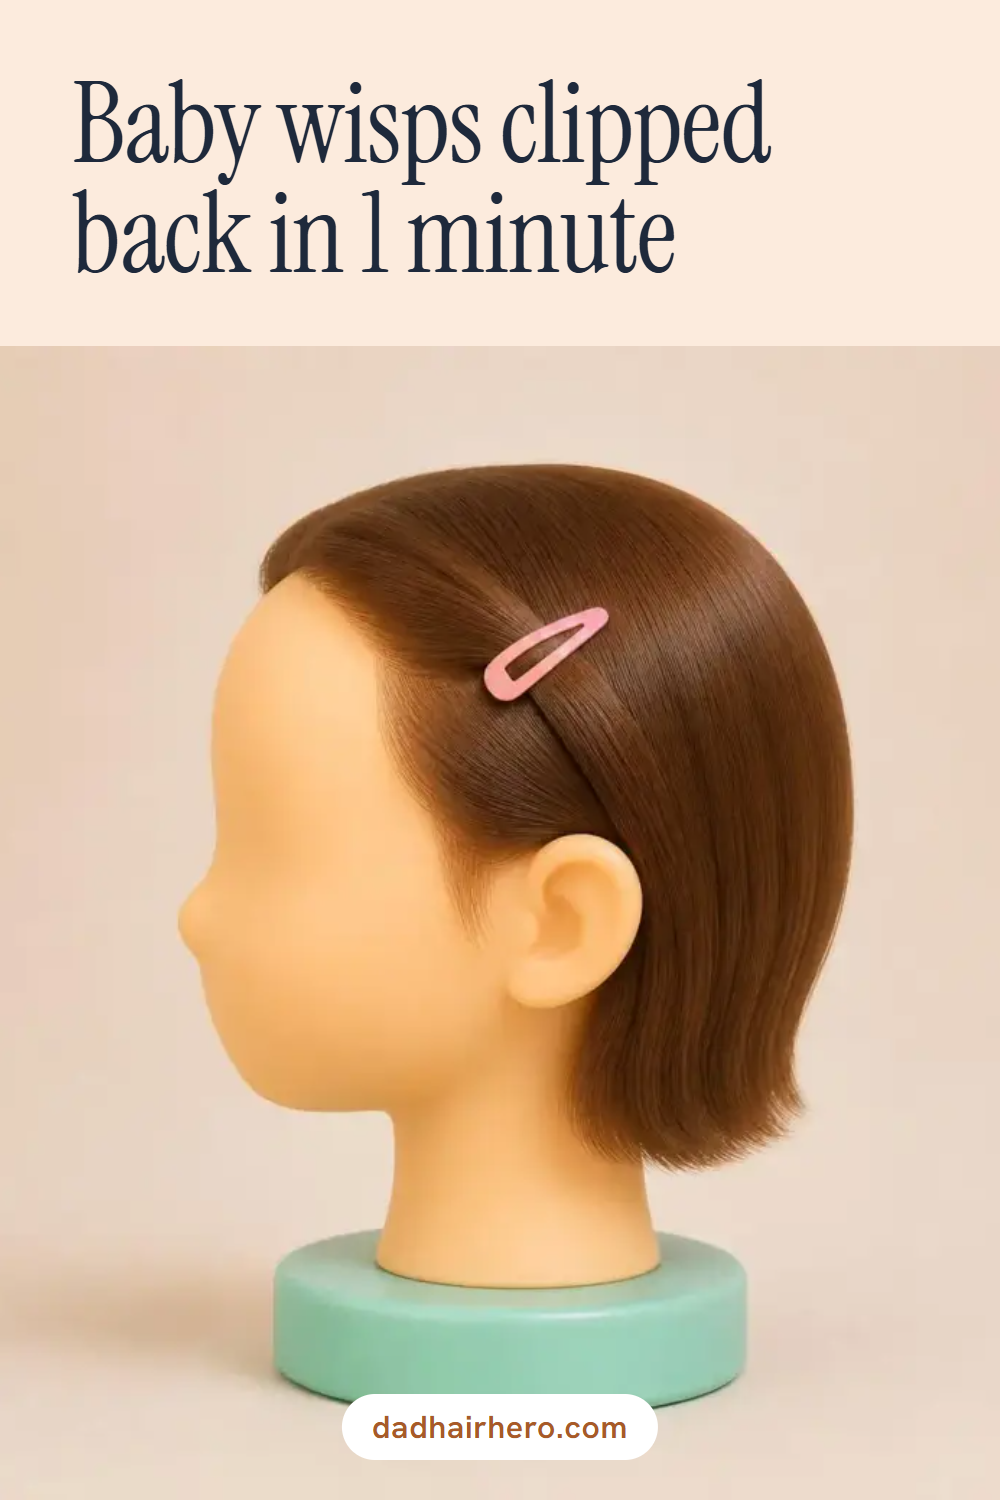
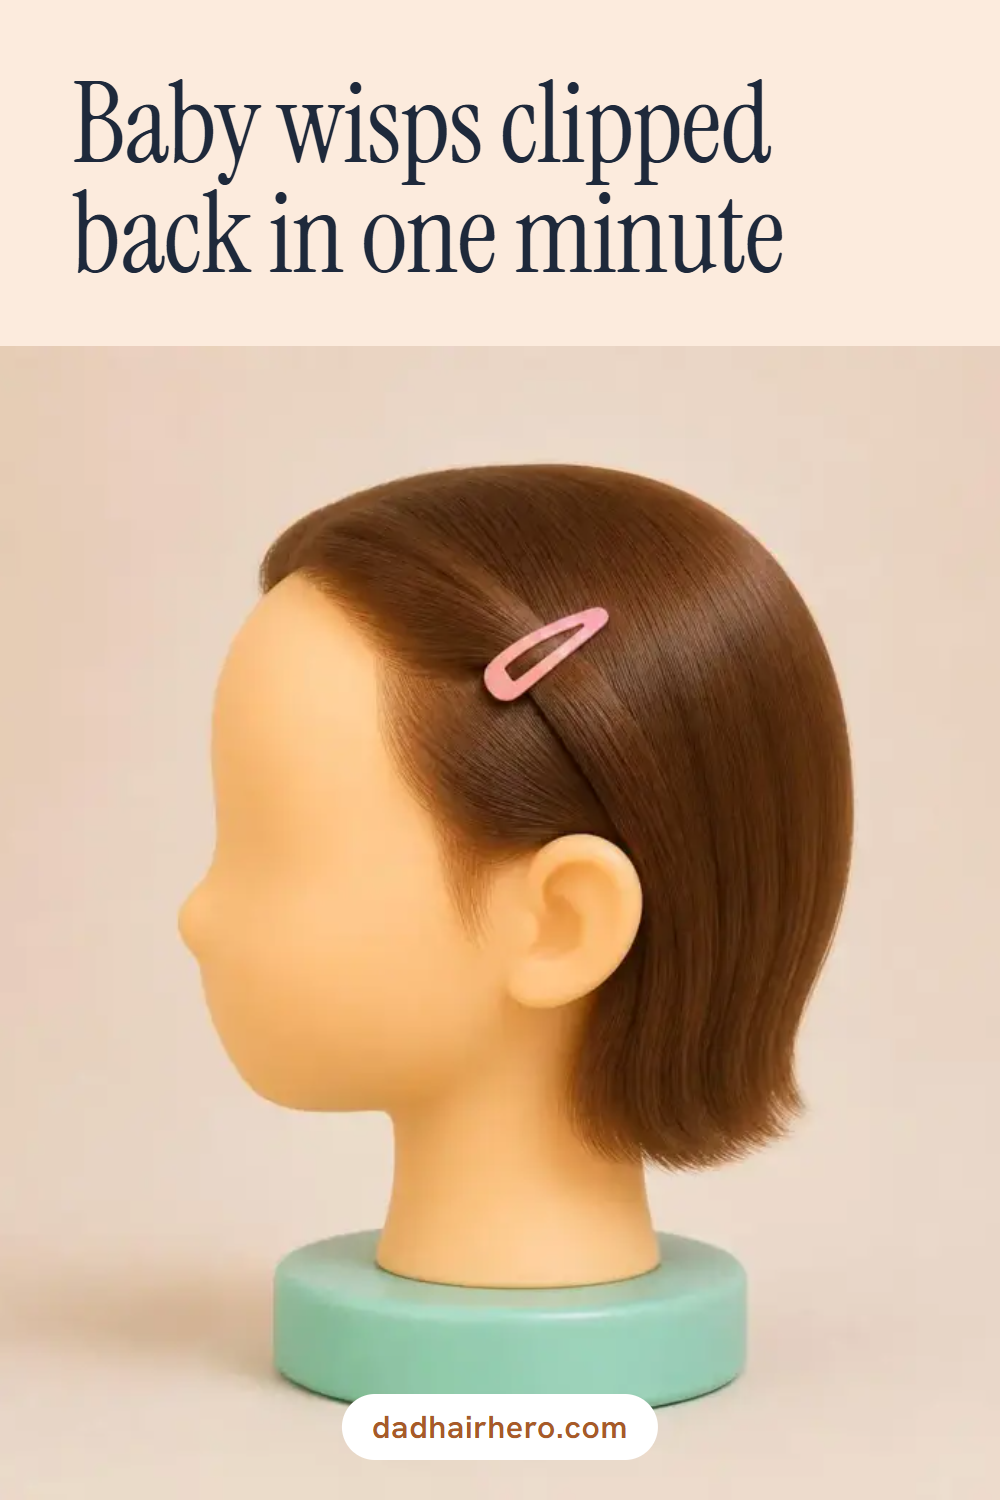
Pins: step strips get pin-st-, clip-back headlines say "one minute"
Step strips now link with pin-st-<style id>, so the stores count them
apart from style pins (pin-) and handoff pins (pin-ho-). check-site holds
each image to its prefix and proves the badge script carries pin-st- and
pin-ho- campaigns, and that "Send this to him" forwards them. The badge
script needed no change.

The two Clip-Back for Baby Wisps headlines spell out "one minute": the
serif 1 reads as an l. CSV titles and descriptions keep the digit.

Changed region(s): [[0.341, 0.1227, 0.775, 0.184]]

diff --git a/pins/README.md b/pins/README.md
@@ -40,9 +40,11 @@ Three a week, at 8pm Irish time (19:00 UTC until the clocks go back on
 25 October, 20:00 UTC after): a style pin on Monday, a handoff pin on
 Wednesday and that style's step strip on Friday.
 
-Style pins and step strips link with `pin-<style id>`, handoff pins with
-`pin-ho-<style id>`. Every link goes to the style's US page, since the pins
-are in US English.
+Each kind of pin has its own campaign, so the stores count them apart:
+style pins link with `pin-<style id>`, step strips with `pin-st-<style id>`
+and handoff pins with `pin-ho-<style id>`. check-site holds each image to
+its prefix. Every link goes to the style's US page, since the pins are in
+US English.
 
 The three Two Even Pigtails pins can point to the UK page instead, for UK and
 Ireland boards. The images and text say "pigtails", as on the US page.
@@ -52,7 +54,7 @@ place of the Link:
 | Pin | UK link |
 |---|---|
 | two-even-pigtails-in-6-minutes.png | https://dadhairhero.com/styles/two-even-bunches/?utm_source=pinterest&utm_medium=social&utm_campaign=pin-two-even-bunches |
-| two-even-pigtails-step-by-step.png | https://dadhairhero.com/styles/two-even-bunches/?utm_source=pinterest&utm_medium=social&utm_campaign=pin-two-even-bunches |
+| two-even-pigtails-step-by-step.png | https://dadhairhero.com/styles/two-even-bunches/?utm_source=pinterest&utm_medium=social&utm_campaign=pin-st-two-even-bunches |
 | send-him-two-even-pigtails.png | https://dadhairhero.com/styles/two-even-bunches/?utm_source=pinterest&utm_medium=social&utm_campaign=pin-ho-two-even-bunches |
 
 The images, titles, descriptions, boards and dates all come from
@@ -65,16 +67,16 @@ The images, titles, descriptions, boards and dates all come from
 |---|---|---|---|---|
 | Mon 19 Oct | two-even-pigtails-in-6-minutes.png | style | pin-two-even-bunches | Easy toddler hairstyles |
 | Wed 21 Oct | send-him-classic-ponytail.png | handoff | pin-ho-classic-ponytail | 5-minute school hairstyles |
-| Fri 23 Oct | two-even-pigtails-step-by-step.png | step strip | pin-two-even-bunches | 5-minute school hairstyles |
+| Fri 23 Oct | two-even-pigtails-step-by-step.png | step strip | pin-st-two-even-bunches | 5-minute school hairstyles |
 | Mon 26 Oct | classic-ponytail-in-3-minutes.png | style | pin-classic-ponytail | 5-minute school hairstyles |
 | Wed 28 Oct | send-him-high-ponytail.png | handoff | pin-ho-high-ponytail | Hair tips for dads |
-| Fri 30 Oct | classic-ponytail-step-by-step.png | step strip | pin-classic-ponytail | Hair tips for dads |
+| Fri 30 Oct | classic-ponytail-step-by-step.png | step strip | pin-st-classic-ponytail | Hair tips for dads |
 | Mon 2 Nov | half-up-half-down-in-4-minutes.png | style | pin-half-up-half-down | 5-minute school hairstyles |
 | Wed 4 Nov | send-him-two-even-pigtails.png | handoff | pin-ho-two-even-bunches | Hair tips for dads |
-| Fri 6 Nov | half-up-half-down-step-by-step.png | step strip | pin-half-up-half-down | Hair tips for dads |
+| Fri 6 Nov | half-up-half-down-step-by-step.png | step strip | pin-st-half-up-half-down | Hair tips for dads |
 | Mon 9 Nov | high-ponytail-in-4-minutes.png | style | pin-high-ponytail | 5-minute school hairstyles |
 | Wed 11 Nov | send-him-half-up-half-down.png | handoff | pin-ho-half-up-half-down | 5-minute school hairstyles |
-| Fri 13 Nov | high-ponytail-step-by-step.png | step strip | pin-high-ponytail | Hair tips for dads |
+| Fri 13 Nov | high-ponytail-step-by-step.png | step strip | pin-st-high-ponytail | Hair tips for dads |
 
 ### batch-1-part-2.csv
 
@@ -82,10 +84,10 @@ The images, titles, descriptions, boards and dates all come from
 |---|---|---|---|---|
 | Mon 16 Nov | tangle-free-brushing-in-2-minutes.png | style | pin-tangle-free-brushing | Hair tips for dads |
 | Wed 18 Nov | send-him-clip-back-baby-wisps.png | handoff | pin-ho-clip-back-baby-wisps | Easy toddler hairstyles |
-| Fri 20 Nov | tangle-free-brushing-step-by-step.png | step strip | pin-tangle-free-brushing | Hair tips for dads |
+| Fri 20 Nov | tangle-free-brushing-step-by-step.png | step strip | pin-st-tangle-free-brushing | Hair tips for dads |
 | Mon 23 Nov | clip-back-baby-wisps-in-1-minute.png | style | pin-clip-back-baby-wisps | Easy toddler hairstyles |
 | Wed 25 Nov | send-him-tangle-free-brushing.png | handoff | pin-ho-tangle-free-brushing | Hair tips for dads |
-| Fri 27 Nov | clip-back-baby-wisps-step-by-step.png | step strip | pin-clip-back-baby-wisps | Easy toddler hairstyles |
+| Fri 27 Nov | clip-back-baby-wisps-step-by-step.png | step strip | pin-st-clip-back-baby-wisps | Easy toddler hairstyles |
 
 ## Alt text
 
@@ -111,8 +113,8 @@ upload (Edit Pin > Alt text).
 11. send-him-half-up-half-down.png: A half-up, half-down style with a pink elastic on a mannequin head seen from behind, under the headline Away for a few days? Leave him this.
 12. high-ponytail-step-by-step.png: Three numbered pictures of hands gathering hair to the top of a mannequin head, checking it and tying it, then the finished high ponytail.
 13. tangle-free-brushing-in-2-minutes.png: Long, smooth brushed hair on a mannequin head seen from behind, under the headline Tangle-free brushing in 2 minutes.
-14. send-him-clip-back-baby-wisps.png: Short hair with the front wisps held back by a pink snap clip, on a mannequin head seen from the side, under the headline A first style for dad: 1 minute.
+14. send-him-clip-back-baby-wisps.png: Short hair with the front wisps held back by a pink snap clip, on a mannequin head seen from the side, under the headline A first style for dad: one minute.
 15. tangle-free-brushing-step-by-step.png: Three numbered pictures of hands combing long hair on a mannequin head, from the ends upward, then the smooth finished hair.
-16. clip-back-baby-wisps-in-1-minute.png: Short hair with the front wisps held back by a pink snap clip, on a mannequin head seen from the side, under the headline Baby wisps clipped back in 1 minute.
+16. clip-back-baby-wisps-in-1-minute.png: Short hair with the front wisps held back by a pink snap clip, on a mannequin head seen from the side, under the headline Baby wisps clipped back in one minute.
 17. send-him-tangle-free-brushing.png: Long, smooth brushed hair on a mannequin head seen from behind, under the headline Tears at brushing time? Send him the method.
 18. clip-back-baby-wisps-step-by-step.png: Three numbered pictures of a hand combing, gathering and clipping the front wisps on a mannequin head, then the finished clip-back.
